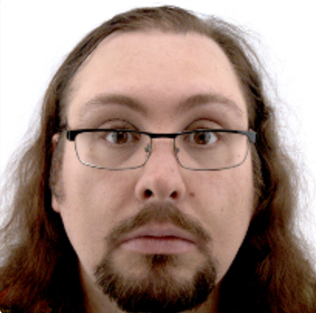
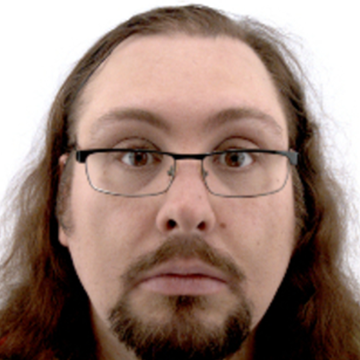
fix: profile image size ratios fixed

diff --git a/README.md b/README.md
@@ -17,7 +17,7 @@ View the live website [here](https://declan444.github.io/24-7-hackathon-team9/).
 
 # Overview
 
----Sitename--- is positioned to be a central hub of information to dispell myths surrounding certain identies under the LGTBQ+ umbrella, build trust, familiarity and confidence between members of those identities and CIS gendered individuals. The focus is on building a bridge, support and understanding.
+AllyIndex is positioned to be a central hub of information to dispell myths surrounding certain identies under the LGTBQ+ umbrella, build trust, familiarity and confidence between members of those identities and CIS gendered individuals. The focus is on building a bridge, support and understanding.
 
 Additionally, a mini quiz will be accessible to help reinforce what has been learnt through the website and gamify the experience to encourage the user to come back and improve their score by developing their understanding of the LGBTQ community.
 
